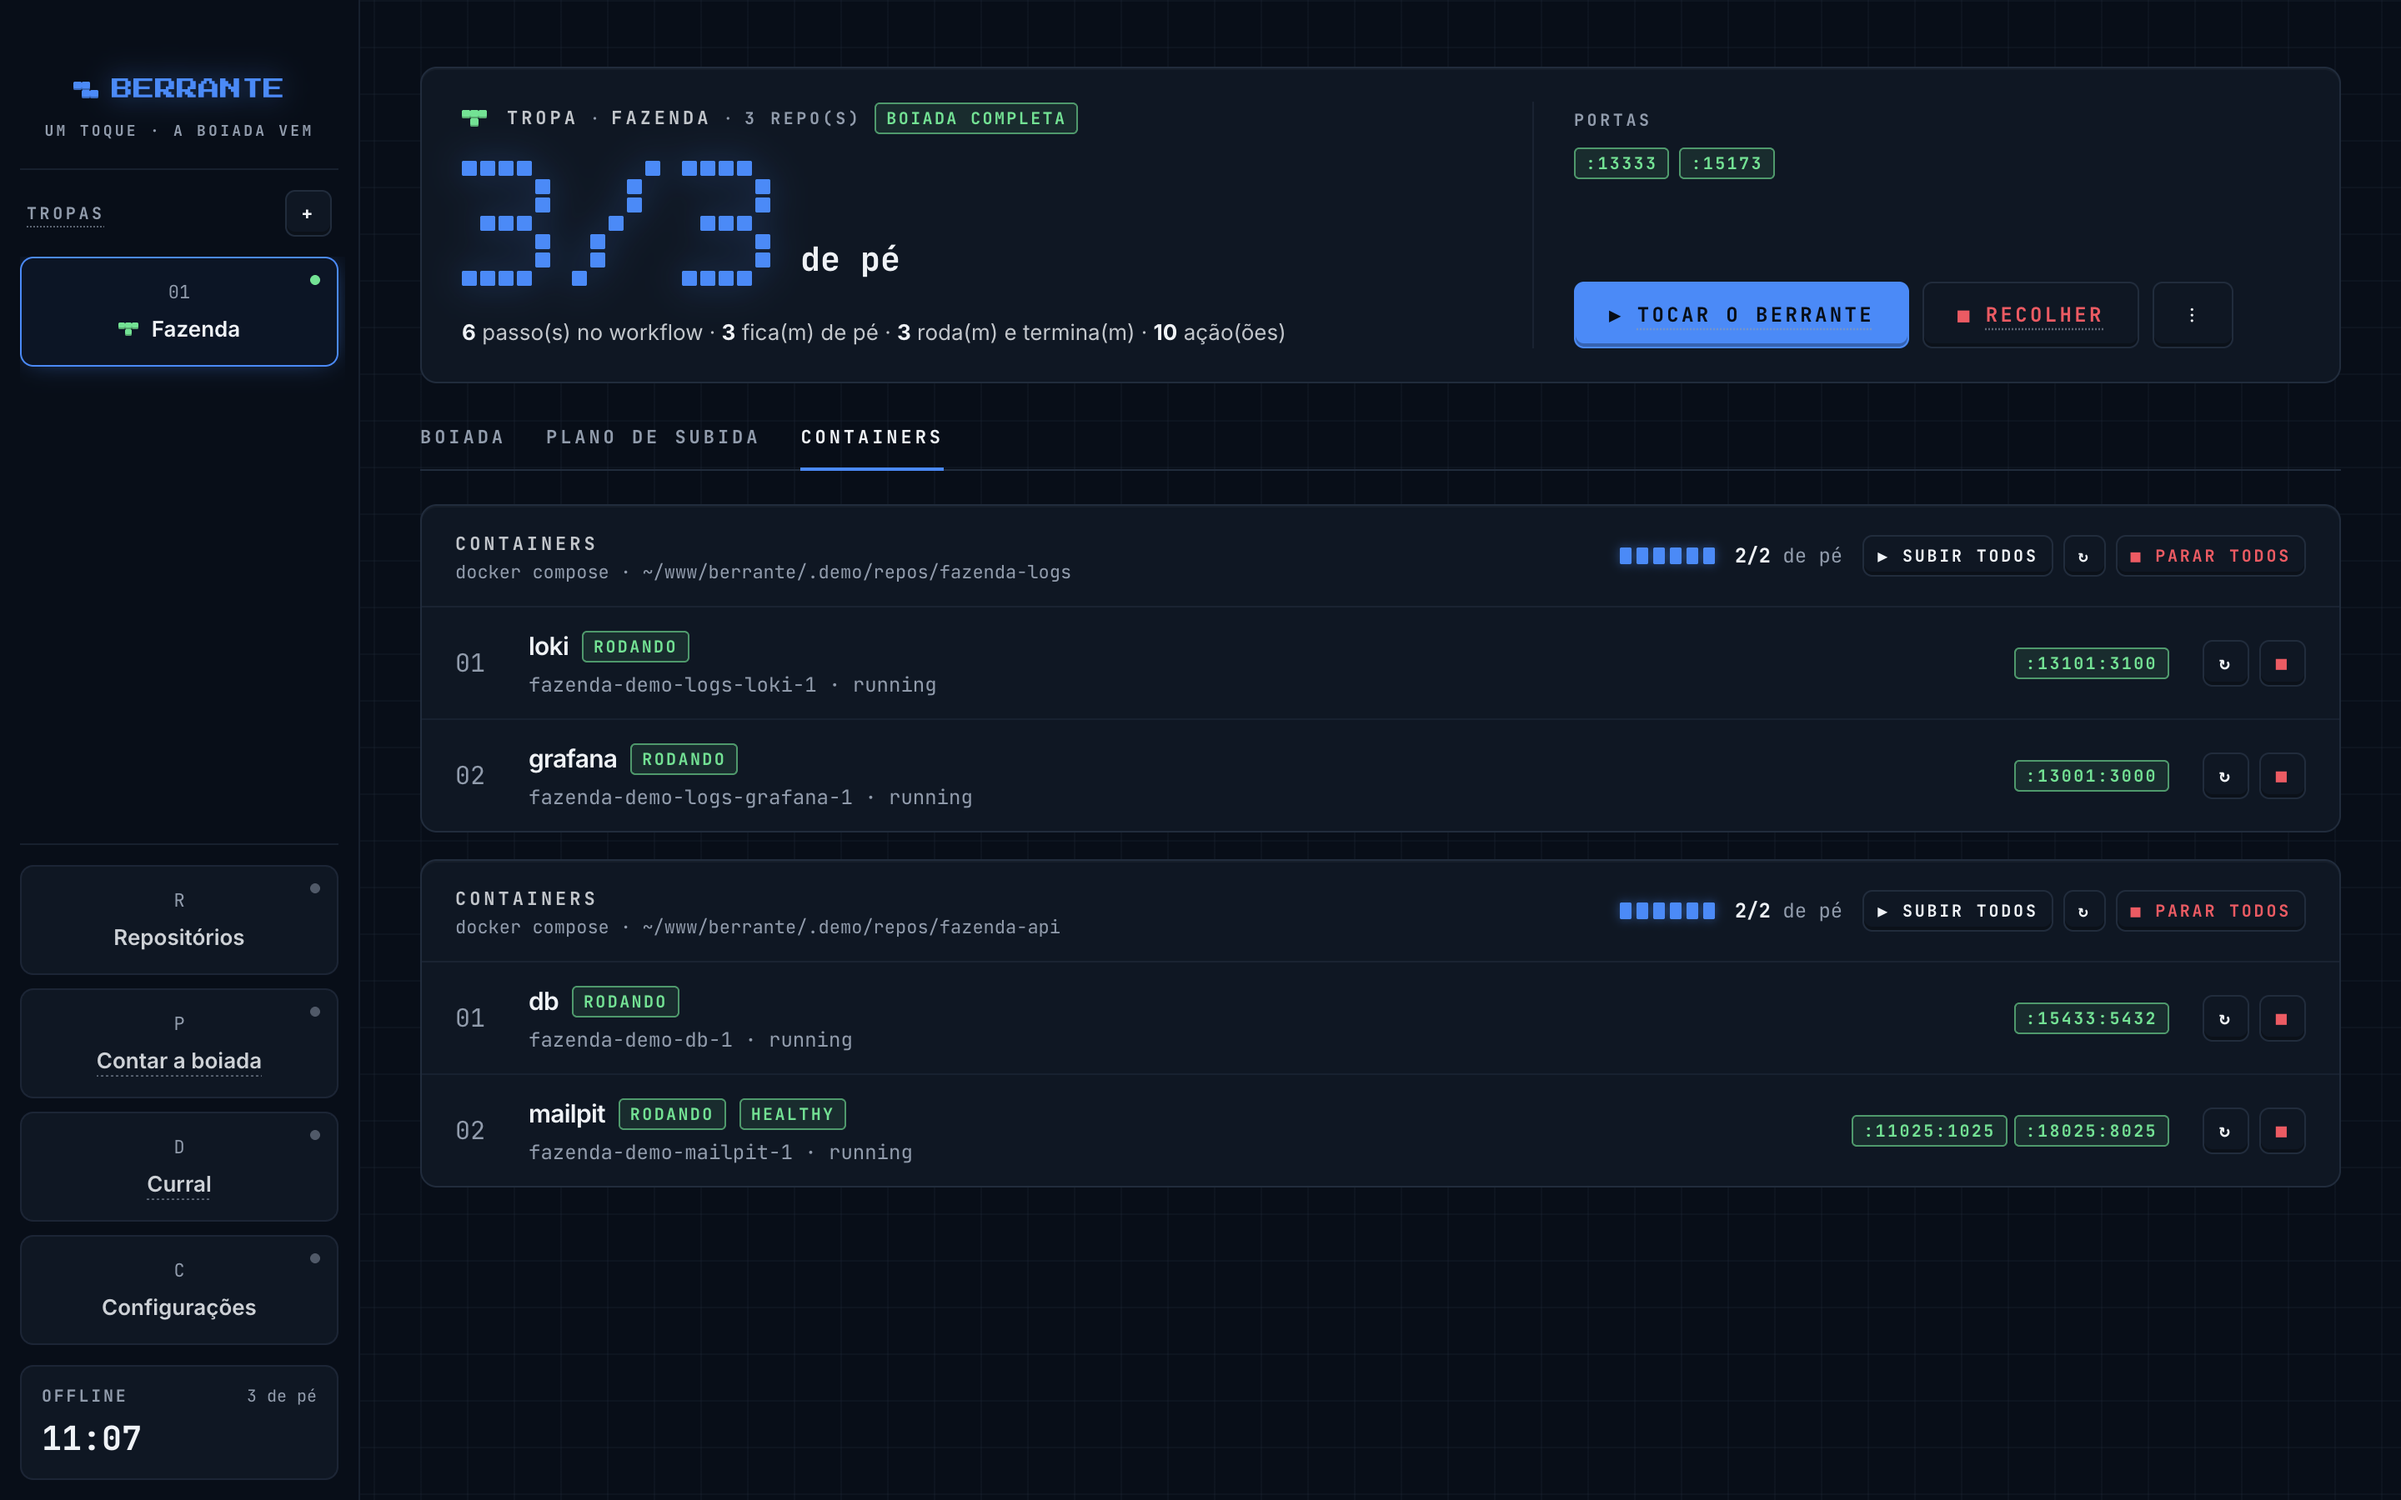
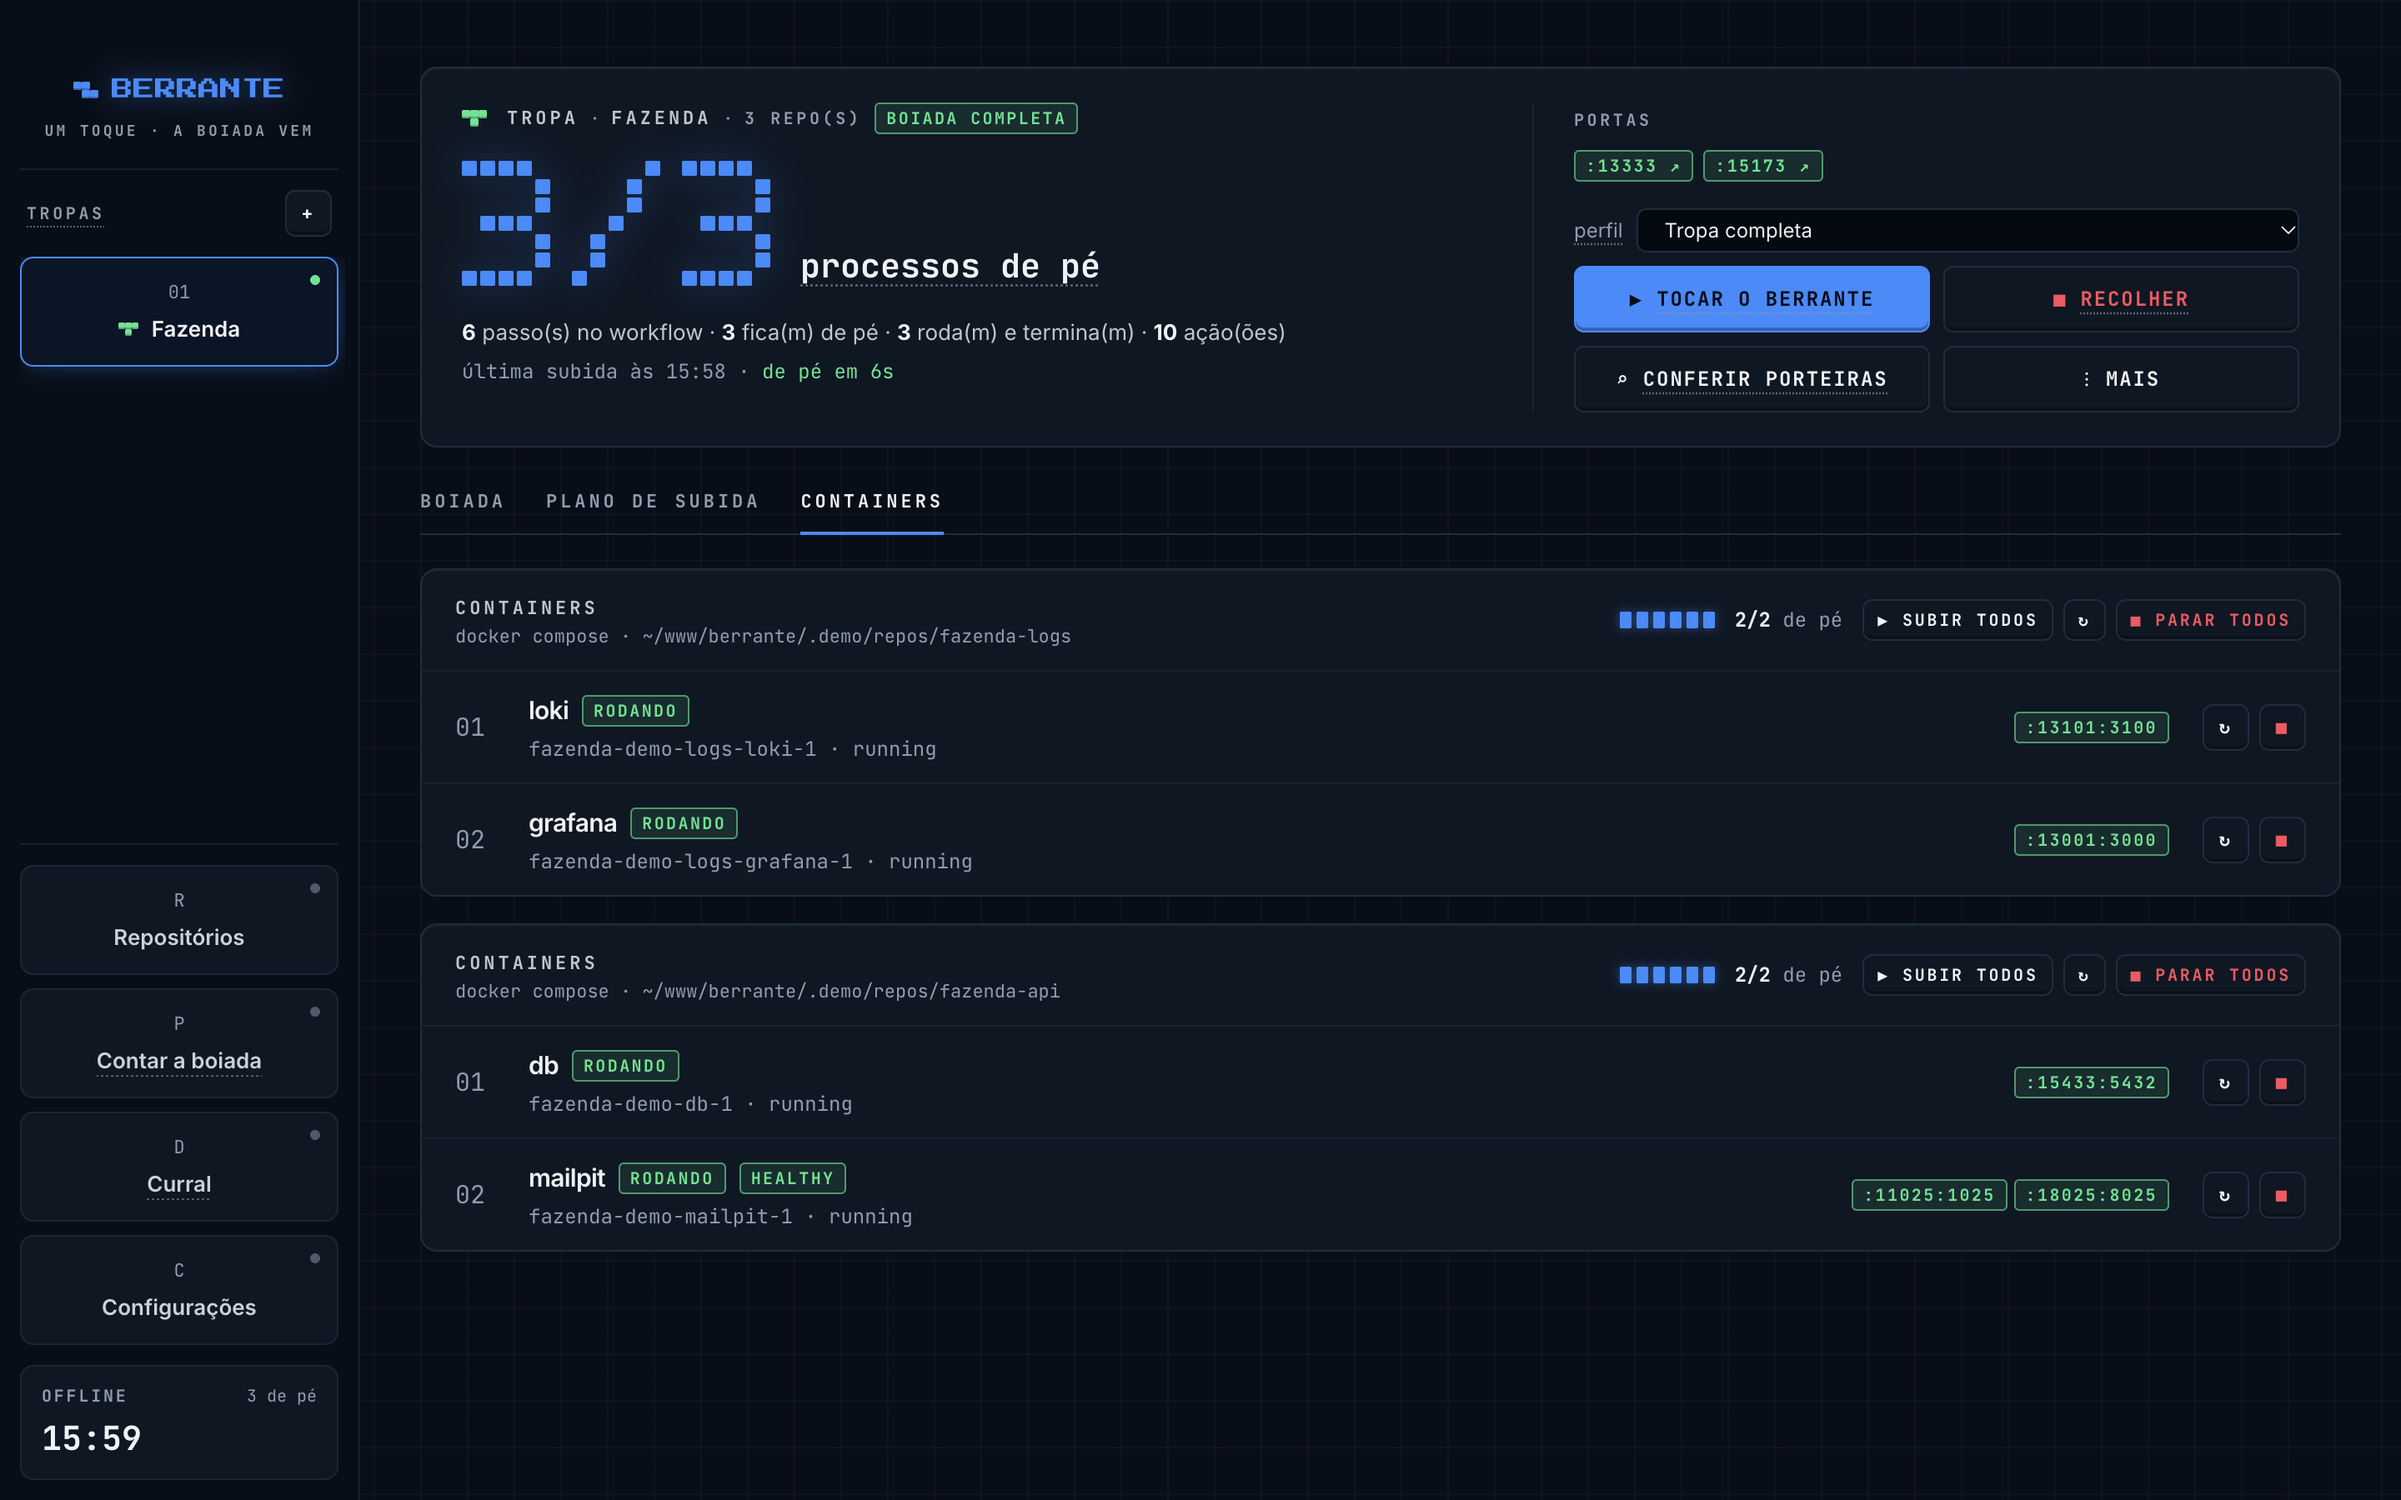
docs(readme): atualiza os prints com as telas da versão 0.5.0
- Regera os prints com o git da tropa, perfis, processos de pé e portas clicáveis
- Mostra healthcheck e reinício automático no print do plano de subida
- Transforma os repos da demonstração em git, com autor fictício e uma alteração local
- Adiciona perfil, healthcheck e reinício automático à tropa de demonstração
- Desliga os avisos do macOS durante a geração dos prints
- Atualiza os textos alternativos e a legenda do plano de subida

diff --git a/README.md b/README.md
@@ -16,7 +16,7 @@ de preparo e scripts de dev na ordem certa, com um clique.
 [Novidades](CHANGELOG.md) ·
 [Desenvolvimento](docs/desenvolvimento.md)
 
-<img src="docs/images/hero.png" alt="Berrante com a tropa Fazenda de pé: 3 de 3 processos rodando, containers concluídos, portas e ações" width="100%">
+<img src="docs/images/hero.png" alt="Berrante com a tropa Fazenda de pé: 3 de 3 processos rodando, branch e alterações de cada repo, portas clicáveis, perfil e duração da última subida" width="100%">
 
 </div>
 
@@ -58,15 +58,15 @@ de preparo e scripts de dev na ordem certa, com um clique.
 
 <table>
   <tr>
-    <td width="50%"><img src="docs/images/plano-de-subida.png" alt="Workflow de subida: passos em ordem com nome, comando, pasta, env e segue ao terminar, abrir uma porta ou iniciar"></td>
+    <td width="50%"><img src="docs/images/plano-de-subida.png" alt="Workflow de subida: passos em ordem com nome, comando, pasta, env, segue ao terminar, abrir uma porta, iniciar ou responder (health) e reinício automático"></td>
     <td width="50%"><img src="docs/images/contar-a-boiada.png" alt="Contar a boiada: portas abertas com PID, comando, pasta e tropa dona"></td>
   </tr>
   <tr>
-    <td align="center"><sub><b>Plano de subida</b> · workflow em passos, pasta, comando e env</sub></td>
+    <td align="center"><sub><b>Plano de subida</b> · passos, pasta, comando, env, healthcheck e reinício automático</sub></td>
     <td align="center"><sub><b>Contar a boiada</b> · portas, PIDs e de qual tropa é cada uma</sub></td>
   </tr>
   <tr>
-    <td width="50%"><img src="docs/images/repositorios.png" alt="Repositórios na máquina e no GitHub, com Finder, Pull e Remover"></td>
+    <td width="50%"><img src="docs/images/repositorios.png" alt="Repositórios na máquina e no GitHub, com importação de várias pastas, Finder, Pull e Remover"></td>
     <td width="50%"><img src="docs/images/configuracoes.png" alt="Configurações: pasta dos clones, IA, 2FA e aparência com cor de destaque"></td>
   </tr>
   <tr>
